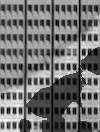
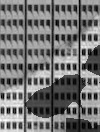
Blend and color output.

diff --git a/code/main.py b/code/main.py
@@ -4,6 +4,7 @@ import matplotlib.pyplot as plt
 import sys
 from entropy import minimize_energy, N
 from utils import find_luminance_chrominance
+from blend import blend_gray, invert_mask
 
 EPSILON = 1e-6 
 
@@ -17,6 +18,8 @@ def main():
     image_color = cv2.imread( image_path + src_name + jpg )
     lum, chrom = find_luminance_chrominance( image_color, EPSILON )
     image_gray = cv2.cvtColor(image_color, cv2.COLOR_BGR2GRAY) 
+
+    # print(chrom)
 
     image = image_gray
     # plt.imshow(image_gray - lum.astype(np.int32))
@@ -34,11 +37,12 @@ def main():
     omega_t = np.diag([90]*N)
     omega_p = np.array([[90.2, 0.0], [0.0, 90.2]])
     lambda_reg = 1.0 
+    num_iter = 30
 
     optimal_l, optimal_img = minimize_energy(image, mask_gray, initial_l, \
                                 phi_l=phi_l, phi_p=phi_p, \
                                 omega_t=omega_t, omega_p=omega_p, \
-                                img_name=src_name, num_iter=10,
+                                img_name=src_name, num_iter=num_iter,
                                 chrominance=chrom)
     optimal_l = optimal_l.reshape((image.shape[0], image.shape[1]))
     image_gray = image_gray.astype(np.int64)
@@ -50,6 +54,25 @@ def main():
     # plt.imshow(np.flip(chrom, axis=2))
     plt.imshow(np.multiply(np.flip(chrom, axis=2), np.stack([optimal_img] * 3, axis=2) / max_l_star))
     plt.show()
+    # plt.imshow(np.stack([optimal_img] * 3, axis=2))
+    # plt.show()
+    # plt.imshow(image_color)
+    # plt.show()
+    # print(np.stack([optimal_img] * 3, axis=2), optimal_img.shape)
+    # print(mask)
+    # print(f"asdfasdf {np.stack([optimal_img] * 3, axis=2).dtype} {mask.dtype} {image_color.dtype}")
+    inverted_mask = invert_mask(mask)
+    blent = blend_gray(np.stack([optimal_img] * 3, axis=2), inverted_mask, image_color)
+    plt.imshow(blent)
+    plt.show()
+    rechromed = np.multiply(chrom, blent)
+    rechromed = rechromed.clip(0, 1)
+    print(rechromed.dtype)
+    print(np.max(rechromed))
+    print(np.min(rechromed))
+    plt.imshow(np.flip(rechromed, axis=2))
+    plt.show()
+    cv2.imwrite(f'../results/{src_name}_color_{num_iter}_iters.jpg', (rechromed * 255).astype(np.uint8))
     # cv2.imshow("i", optimal_img)
     # cv2.waitKey(0)
     print("--------------OPTIMAL--------------")
@@ -57,9 +80,6 @@ def main():
     print(f"optimal_l max: {np.max(np.exp(optimal_l))}")
     print(f"optimal_r min: {np.min(np.exp(optimal_r))}")
     print(f"optimal_r max: {np.max(np.exp(optimal_r))}")
-
-
-
 
 if __name__ == "__main__":
     main()

diff --git a/code/blend.py b/code/blend.py
@@ -86,9 +86,9 @@ def poisson_blend(source, mask, target):
     main.py).
 
     Args:
-        source - np.array of source image
-        mask   - np.array of binary mask
-        target - np.array of target image
+        source - np.array of source image between 0 and 1
+        mask   - np.array of binary mask between 0 and 1
+        target - np.array of target image between 0 and 1
 
     Returns:
         np.array of blended image
@@ -126,22 +126,40 @@ def invert_mask(mask, pad=False):
     return inverted
 
 def blend_gray(im, mask, original):
-    blended = poisson_blend(im.astype(np.float32) / 255, 
+    """
+    Im must be between 0 and 1
+    Mask must be between 0 and 1
+    Original is between 0 and 255
+    """
+    original = cv2.cvtColor(original, cv2.COLOR_BGR2GRAY)
+    original = np.stack([original] * 3, axis=2)
+    blended = poisson_blend(im.astype(np.float32), 
                             mask.astype(np.float32), 
                             original.astype(np.float32) / 255)
-    print (np.max(blended))
-    plt.imshow(blended.clip(0, 1))
+    return blended.clip(0, 1)
+
+def blend_color(im, mask):
+    blended = poisson_blend(im.astype(np.float32), 
+                            mask.astype(np.float32), 
+                            im.astype(np.float32))
+    plt.imshow(np.flip(blended.clip(0, 1), axis=2)-np.flip(im, axis=2))
     plt.show()
-    ### CURRENTLY Making white because colliding with the wall I suppose. Need 
-    ### to add a black border around mask?
-    ### Blend once for grayscale, once for color?
+    print(np.max(np.abs(np.flip(blended.clip(0, 1), axis=2)-np.flip(im, axis=2))))
+    return blended.clip(0, 1)
 
-mask = invert_mask(cv2.imread('../data/shadow_mask.jpg'))
+# mask = invert_mask(cv2.imread('../data/shadow_mask.jpg'))
 
-original_im = cv2.imread('../data/IMG_1167.jpg')
-original_im = cv2.cvtColor(original_im, cv2.COLOR_BGR2GRAY)
-original_im = np.stack([original_im] * 3, axis=2)
+# original_im = cv2.imread('../data/IMG_1167.jpg')
 
-blend_gray(cv2.imread('../results/IMG_1167_R=1_49.jpg'), 
-           mask,
-           original_im)
+# processed = cv2.imread('../results/IMG_1167_R=1_49.jpg')
+
+# colored = cv2.imread('../test.png')
+
+# print(processed.dtype, mask.dtype, original_im.dtype)
+
+# blent = blend_gray(processed.astype(np.float32) / 255,
+#                    mask,
+#                    original_im)
+
+# blend_color(colored.astype(np.float32) / 255,
+#             mask)
